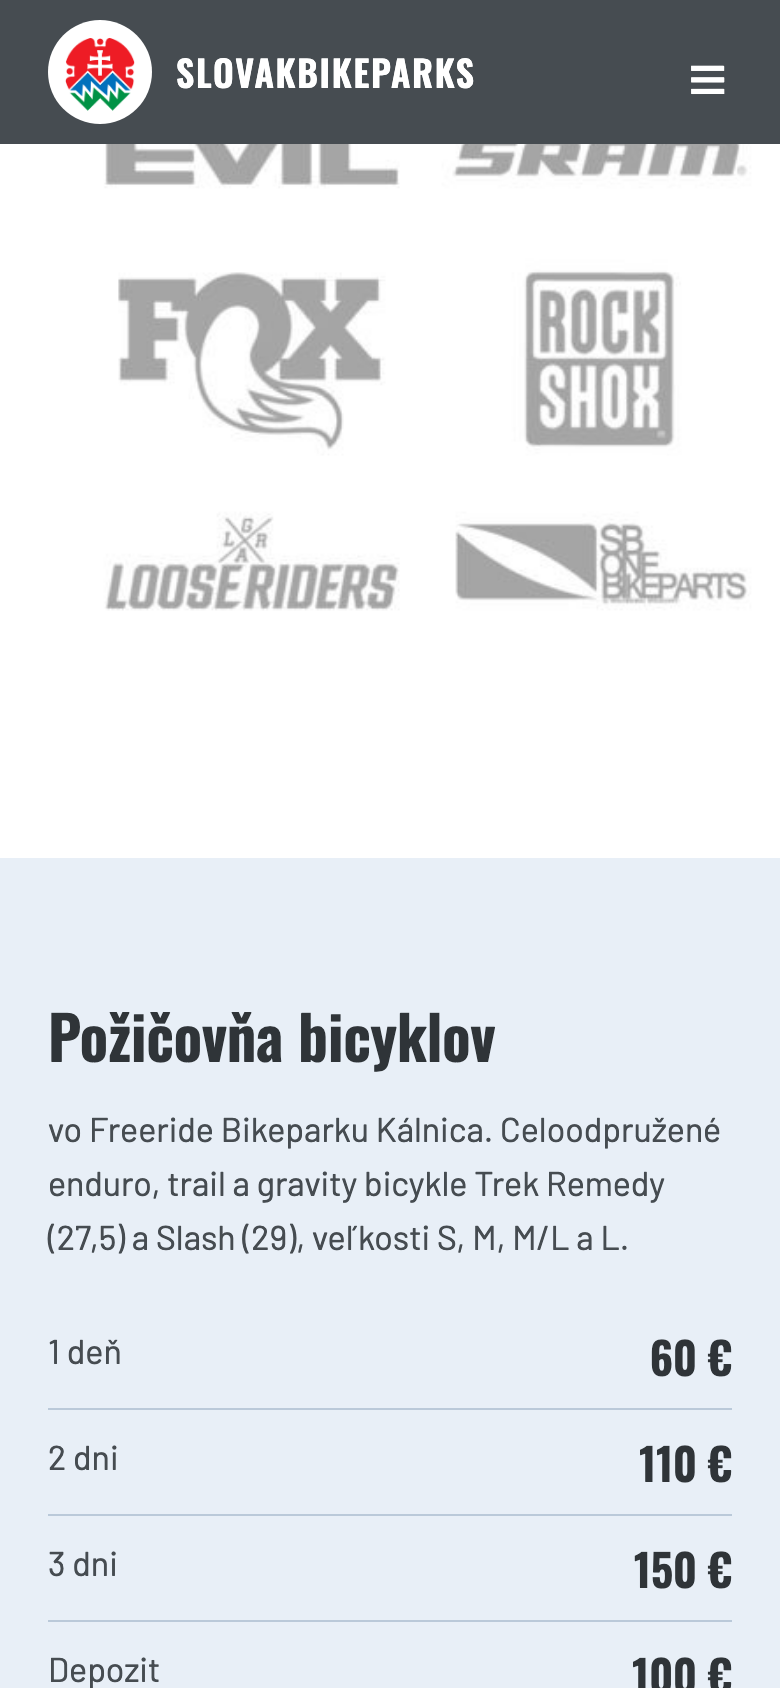
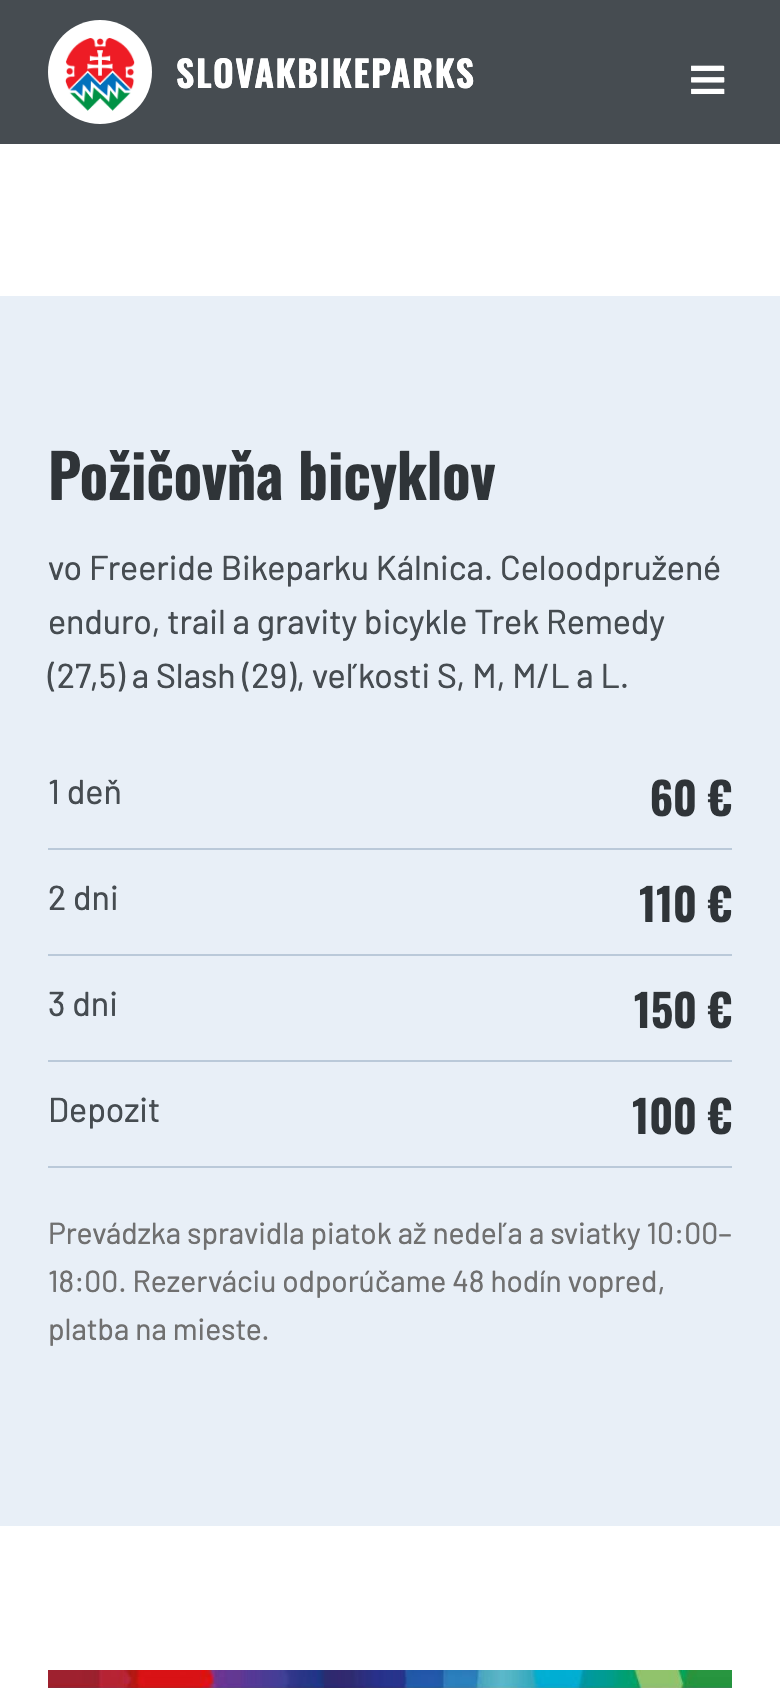
Opravné kolo: fotky z webu klienta, mřížka log s odkazy

diff --git a/index.html b/index.html
@@ -11,7 +11,7 @@
 <link rel="icon" href="img/logo.png">
 <link rel="preconnect" href="https://fonts.googleapis.com"><link rel="preconnect" href="https://fonts.gstatic.com" crossorigin>
 <link href="https://fonts.googleapis.com/css2?family=Oswald:wght@500;600&family=Barlow:wght@400;500;600&display=swap&subset=latin-ext" rel="stylesheet">
-<link rel="stylesheet" href="style.css?v=4">
+<link rel="stylesheet" href="style.css?v=5">
 </head>
 <body>
 <header class="top">
@@ -35,17 +35,18 @@
 <section id="znacky" class="sec">
  <h2>Naše značky</h2>
  <p class="lead">Bicykle, vidlice, brzdy, kolesá aj doplnky od výrobcov, ktorým veríme.</p>
- <img class="wide" src="img/znacky.jpg" alt="Logá značiek v ponuke" width="1024" height="515" loading="lazy">
+ <div class="grid"><a href="https://slovakbikeparks.sk/eshop/" aria-label="MAGURA v eshope"><img src="img/z00.jpg" alt="MAGURA" width="204" height="128" loading="lazy"></a><a href="https://slovakbikeparks.sk/eshop/" aria-label="tune v eshope"><img src="img/z01.jpg" alt="tune" width="204" height="128" loading="lazy"></a><a href="https://slovakbikeparks.sk/eshop/" aria-label="ERGON v eshope"><img src="img/z02.jpg" alt="ERGON" width="204" height="128" loading="lazy"></a><a href="https://slovakbikeparks.sk/eshop/" aria-label="TRICKSTUFF v eshope"><img src="img/z03.jpg" alt="TRICKSTUFF" width="204" height="128" loading="lazy"></a><a href="https://slovakbikeparks.sk/eshop/" aria-label="DVO v eshope"><img src="img/z04.jpg" alt="DVO" width="204" height="128" loading="lazy"></a><a href="https://slovakbikeparks.sk/eshop/" aria-label="EVIL v eshope"><img src="img/z05.jpg" alt="EVIL" width="204" height="128" loading="lazy"></a><a href="https://slovakbikeparks.sk/eshop/" aria-label="SRAM v eshope"><img src="img/z06.jpg" alt="SRAM" width="204" height="128" loading="lazy"></a><a href="https://slovakbikeparks.sk/eshop/" aria-label="INDUSTRY NINE v eshope"><img src="img/z07.jpg" alt="INDUSTRY NINE" width="204" height="128" loading="lazy"></a><a href="https://slovakbikeparks.sk/eshop/" aria-label="BOSCH v eshope"><img src="img/z08.jpg" alt="BOSCH" width="204" height="128" loading="lazy"></a><a href="https://slovakbikeparks.sk/eshop/" aria-label="NEXTIE v eshope"><img src="img/z09.jpg" alt="NEXTIE" width="204" height="128" loading="lazy"></a><a href="https://slovakbikeparks.sk/eshop/" aria-label="FOX v eshope"><img src="img/z10.jpg" alt="FOX" width="204" height="128" loading="lazy"></a><a href="https://slovakbikeparks.sk/eshop/" aria-label="ROCKSHOX v eshope"><img src="img/z11.jpg" alt="ROCKSHOX" width="204" height="128" loading="lazy"></a><a href="https://slovakbikeparks.sk/eshop/" aria-label="e thirteen v eshope"><img src="img/z12.jpg" alt="e thirteen" width="204" height="128" loading="lazy"></a><a href="https://slovakbikeparks.sk/eshop/" aria-label="Reverse v eshope"><img src="img/z13.jpg" alt="Reverse" width="204" height="128" loading="lazy"></a><a href="https://slovakbikeparks.sk/eshop/" aria-label="RACE FACE v eshope"><img src="img/z14.jpg" alt="RACE FACE" width="204" height="128" loading="lazy"></a><a href="https://slovakbikeparks.sk/eshop/" aria-label="LOOSERIDERS v eshope"><img src="img/z15.jpg" alt="LOOSERIDERS" width="204" height="128" loading="lazy"></a><a href="https://slovakbikeparks.sk/eshop/" aria-label="SB ONE BIKEPARTS v eshope"><img src="img/z16.jpg" alt="SB ONE BIKEPARTS" width="204" height="128" loading="lazy"></a><a href="https://slovakbikeparks.sk/eshop/" aria-label="absoluteBLACK v eshope"><img src="img/z17.jpg" alt="absoluteBLACK" width="204" height="128" loading="lazy"></a><a href="https://slovakbikeparks.sk/eshop/" aria-label="BRAKESTUFF v eshope"><img src="img/z18.jpg" alt="BRAKESTUFF" width="204" height="128" loading="lazy"></a><a href="https://slovakbikeparks.sk/eshop/" aria-label="77designz v eshope"><img src="img/z19.jpg" alt="77designz" width="204" height="128" loading="lazy"></a></div>
 </section>
 
 <section id="pozicovna" class="sec alt">
- <div class="cols one">
+ <div class="cols">
   <div>
    <h2>Požičovňa bicyklov</h2>
    <p>vo Freeride Bikeparku Kálnica. Celoodpružené enduro, trail a gravity bicykle Trek Remedy (27,5) a Slash (29), veľkosti S, M, M/L a L.</p>
    <ul class="price"><li><span>1 deň</span><b>60&nbsp;€</b></li><li><span>2 dni</span><b>110&nbsp;€</b></li><li><span>3 dni</span><b>150&nbsp;€</b></li><li><span>Depozit</span><b>100&nbsp;€</b></li></ul>
    <p class="note">Prevádzka spravidla piatok až nedeľa a sviatky 10:00–18:00. Rezerváciu odporúčame 48 hodín vopred, platba na mieste.</p>
   </div>
+  <img class="ph" src="img/trek.jpg" alt="Trek v požičovni Kálnica" width="1024" height="768" loading="lazy">
  </div>
 </section>
 
@@ -61,12 +62,12 @@
 </section>
 
 <section id="cennik" class="sec alt">
- <div class="cols one"><div><h2>Cenník servisu</h2>
+ <div class="cols"><div><h2>Cenník servisu</h2>
  <ul class="price">
   <li><span>Základná prehliadka</span><b>35&nbsp;€</b></li><li><span>Hodinová sadzba</span><b>60&nbsp;€</b></li><li><span>Servis vidlice a tlmiča FOX / RockShox</span><b>100&nbsp;€</b></li><li><span>Minimálna cena servisu</span><b>30&nbsp;€</b></li><li><span>Spätná doprava kuriérom</span><b>5&nbsp;€</b></li>
  </ul>
  <p class="note">Servis nerobíme na počkanie. Bežný do 5 dní, expres 48 h +30 %, 24 h +50 %.</p>
- </div></div>
+ </div><img class="ph" src="img/bio.jpg" alt="Dielňa SlovakBikeparks" width="1024" height="768" loading="lazy"></div>
 </section>
 
 <section id="kontakt" class="sec">
@@ -74,10 +75,11 @@
   <div>
    <h2>Kontakt a bio</h2>
    <p>Viktor, vo svete MTB od roku 1999, YouTube kanál od roku 2015, predtým Sales Rep. Trek a Santa Cruz, ambasádor Bikeparku Kálnica.</p>
-   <p><a href="mailto:viktor@slovakbikeparks.sk">viktor@slovakbikeparks.sk</a><br><a href="mailto:info@consultandtrade.com">info@consultandtrade.com</a></p>
+   <p><a class="btn" href="mailto:viktor@slovakbikeparks.sk">Napísať Viktorovi</a></p>
+   <p><a href="mailto:info@consultandtrade.com">info@consultandtrade.com</a> · <a href="https://www.youtube.com/slovakbikeparks">YouTube</a> · <a href="https://www.instagram.com/slovakbikeparks">Instagram</a> · <a href="https://www.facebook.com/slovakbikeparks">Facebook</a></p>
    <p class="note">Consulting &amp; Trading, s. r. o., Tichá 3000/23, 010 01 Žilina<br>IČO 46806954 · IČ DPH SK2023591141</p>
   </div>
-  <img src="img/bio.jpg" alt="Viktor, SlovakBikeparks" width="1024" height="768" loading="lazy">
+  <img src="img/kalnica.jpg" alt="Trek downhill nad Kálnicou" width="1024" height="768" loading="lazy">
  </div>
 </section>
 </main>

diff --git a/style.css b/style.css
@@ -34,3 +34,6 @@ nav{display:none;position:absolute;top:100%;left:0;right:0;background:#464C51;fl
 .hero-t{z-index:2}.hero-t p{font-size:20px}.hero img{opacity:.8}
 .wide{width:100%;max-width:900px;margin:24px auto 0}
 .hero-t p{max-width:560px;line-height:1.5;font-size:21px}.hero::after{background:linear-gradient(0deg,rgba(0,0,0,.8),rgba(0,0,0,.15) 75%)}
+.grid{display:grid;grid-template-columns:repeat(5,1fr);gap:4px;margin-top:24px;max-width:900px}.grid a{display:block;background:#fafafa}.grid img{width:100%;height:auto}
+@media(max-width:600px){.grid{grid-template-columns:repeat(3,1fr)}}
+.one{max-width:none}.hero-t p{font-size:22px}.btn{color:#1f2528!important}
